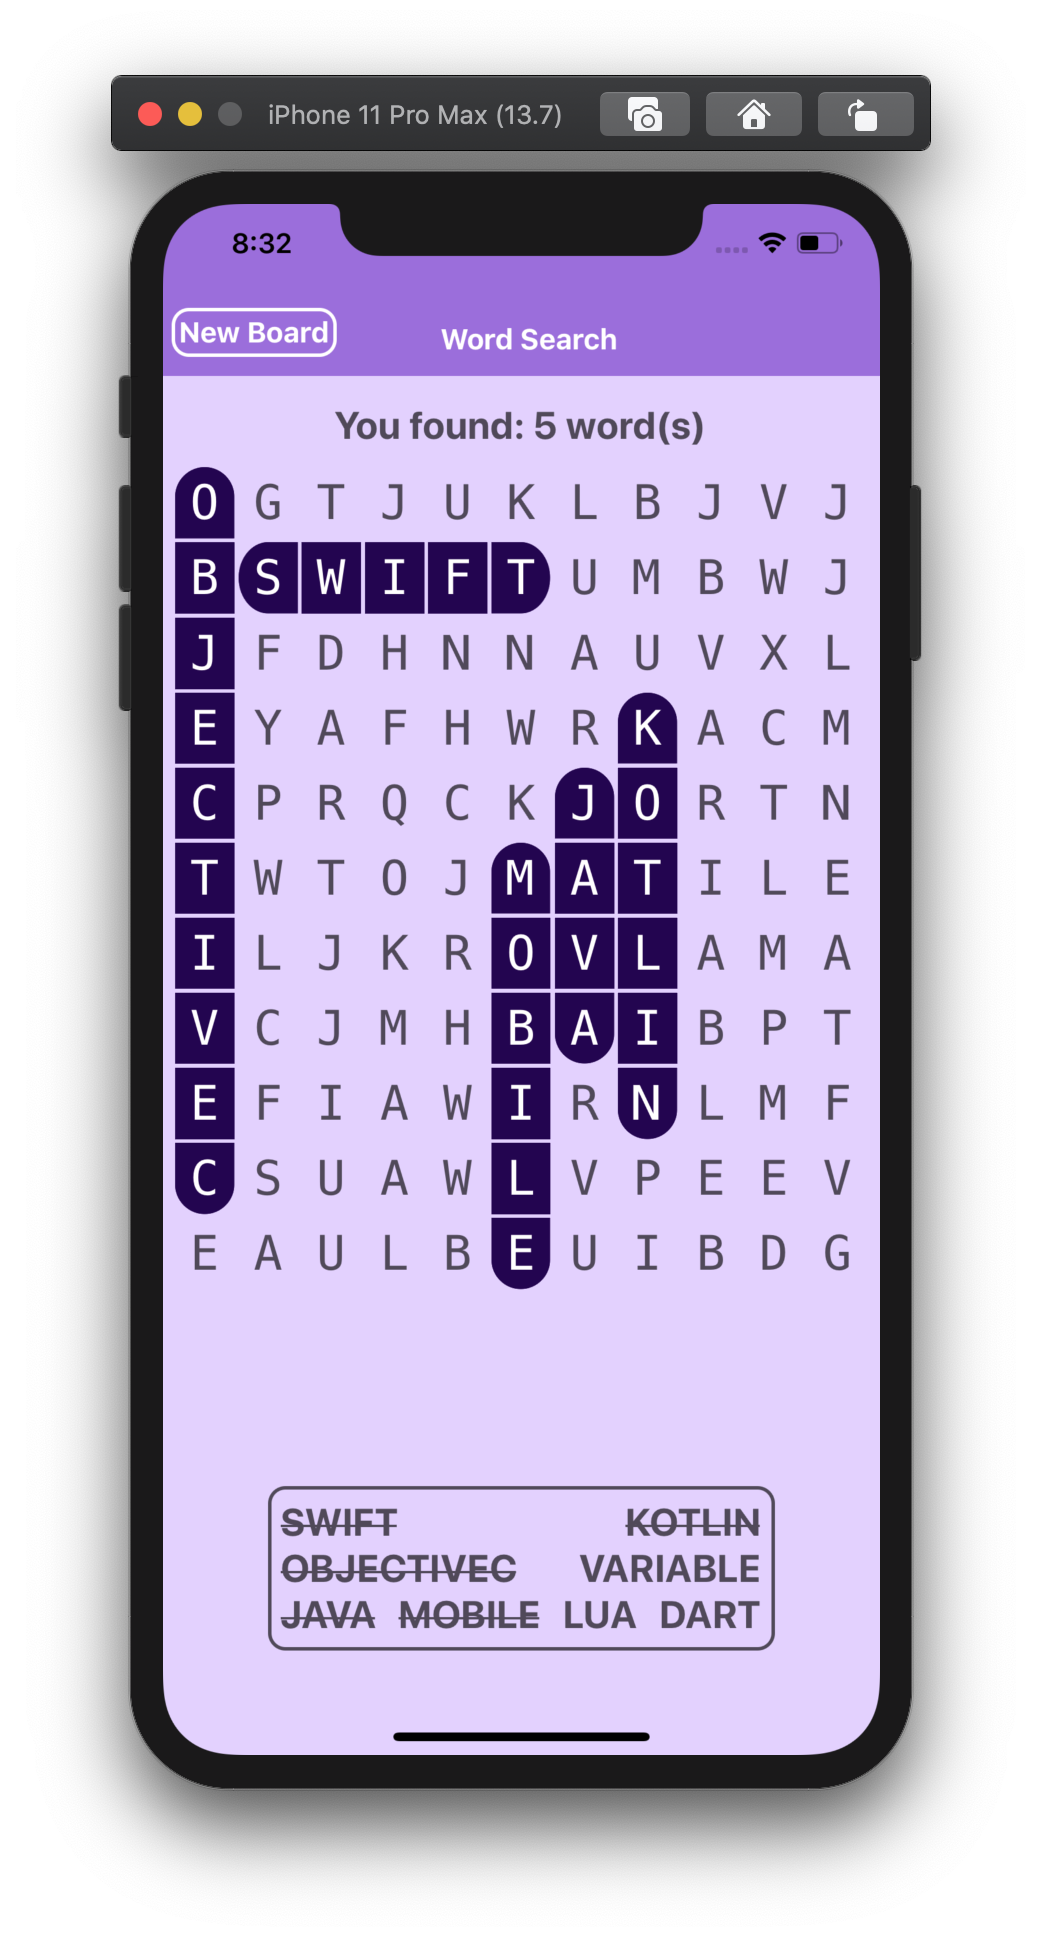
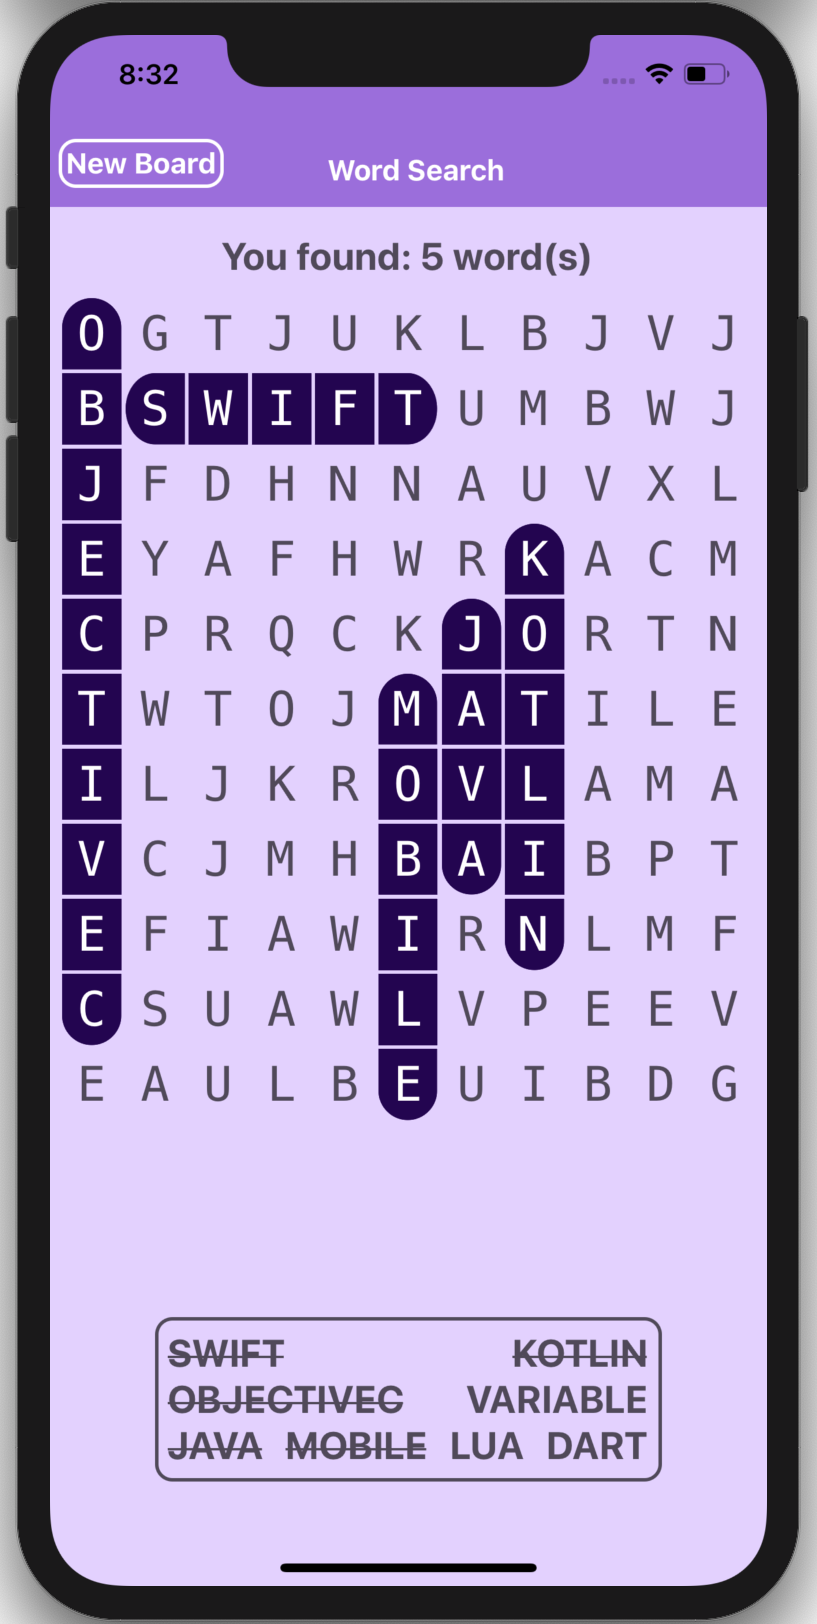
fix: adjusted spacing in wordbar

diff --git a/Components/WordBar.js b/Components/WordBar.js
@@ -24,7 +24,7 @@ const styles = StyleSheet.create({
     container: {
         flexDirection: 'row',
         flexWrap: 'wrap',
-        margin: verticalScale(50),
+        margin: verticalScale(35),
         padding: verticalScale(5),
         borderWidth: 2,
         borderColor:'#50495A',

diff --git a/.expo-shared/README.md b/.expo-shared/README.md
@@ -1,0 +1,11 @@
+> Why do I have a folder named ".expo-shared" in my project?
+
+The ".expo-shared" folder is created when running commands that produce state that is intended to be shared with all developers on the project. For example, "npx expo-optimize".
+
+> What does the "assets.json" file contain?
+
+The "assets.json" file describes the assets that have been optimized through "expo-optimize" and do not need to be processed again.
+
+> Should I commit the ".expo-shared" folder?
+
+Yes, you should share the ".expo-shared" folder with your collaborators.
